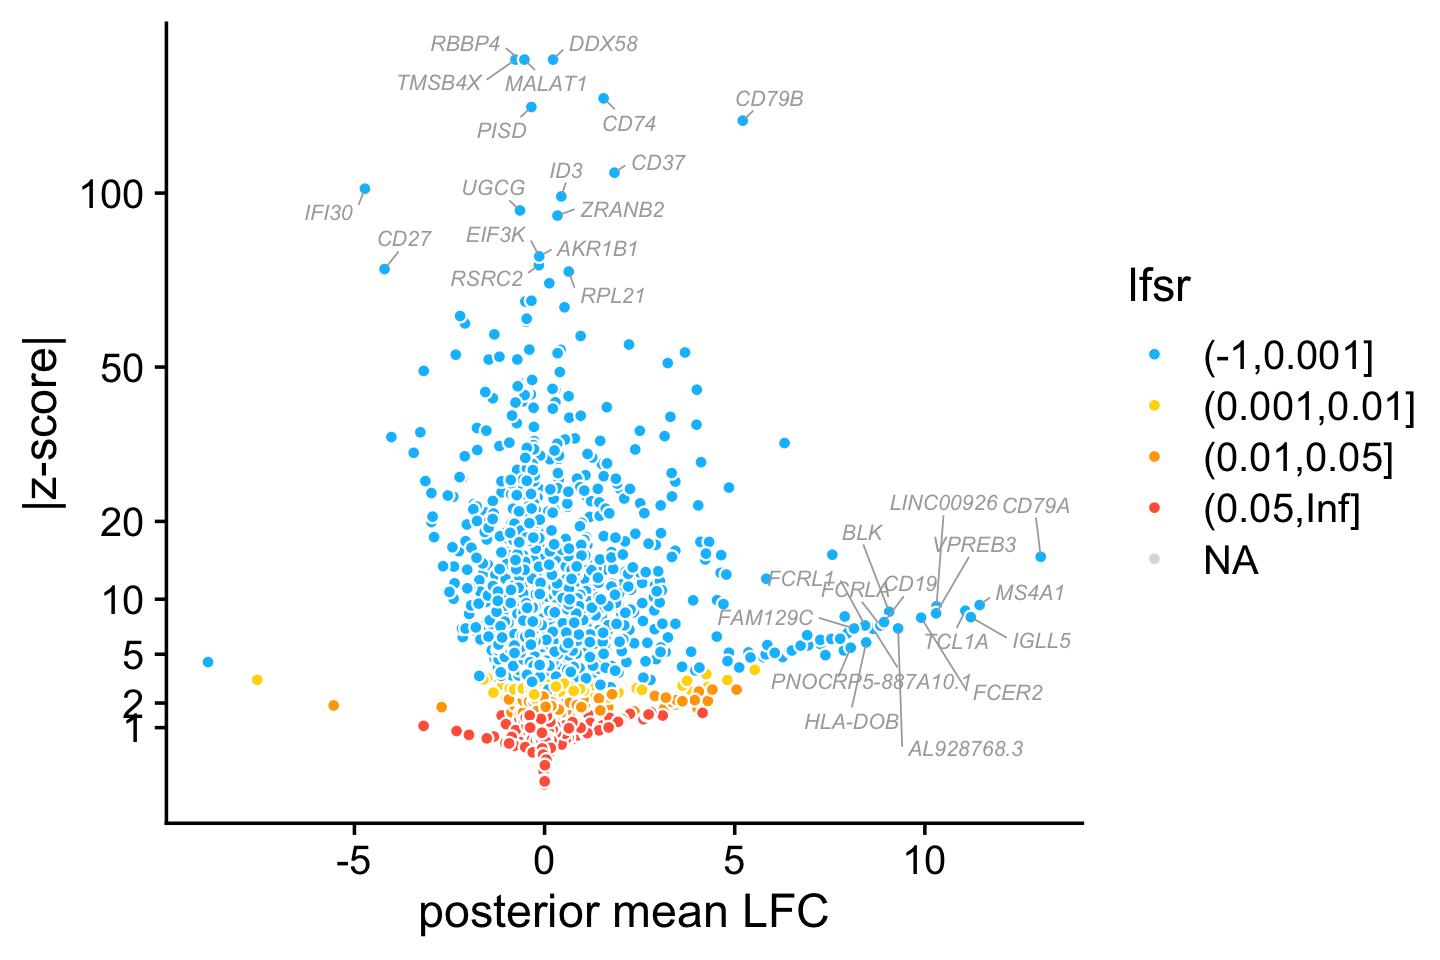
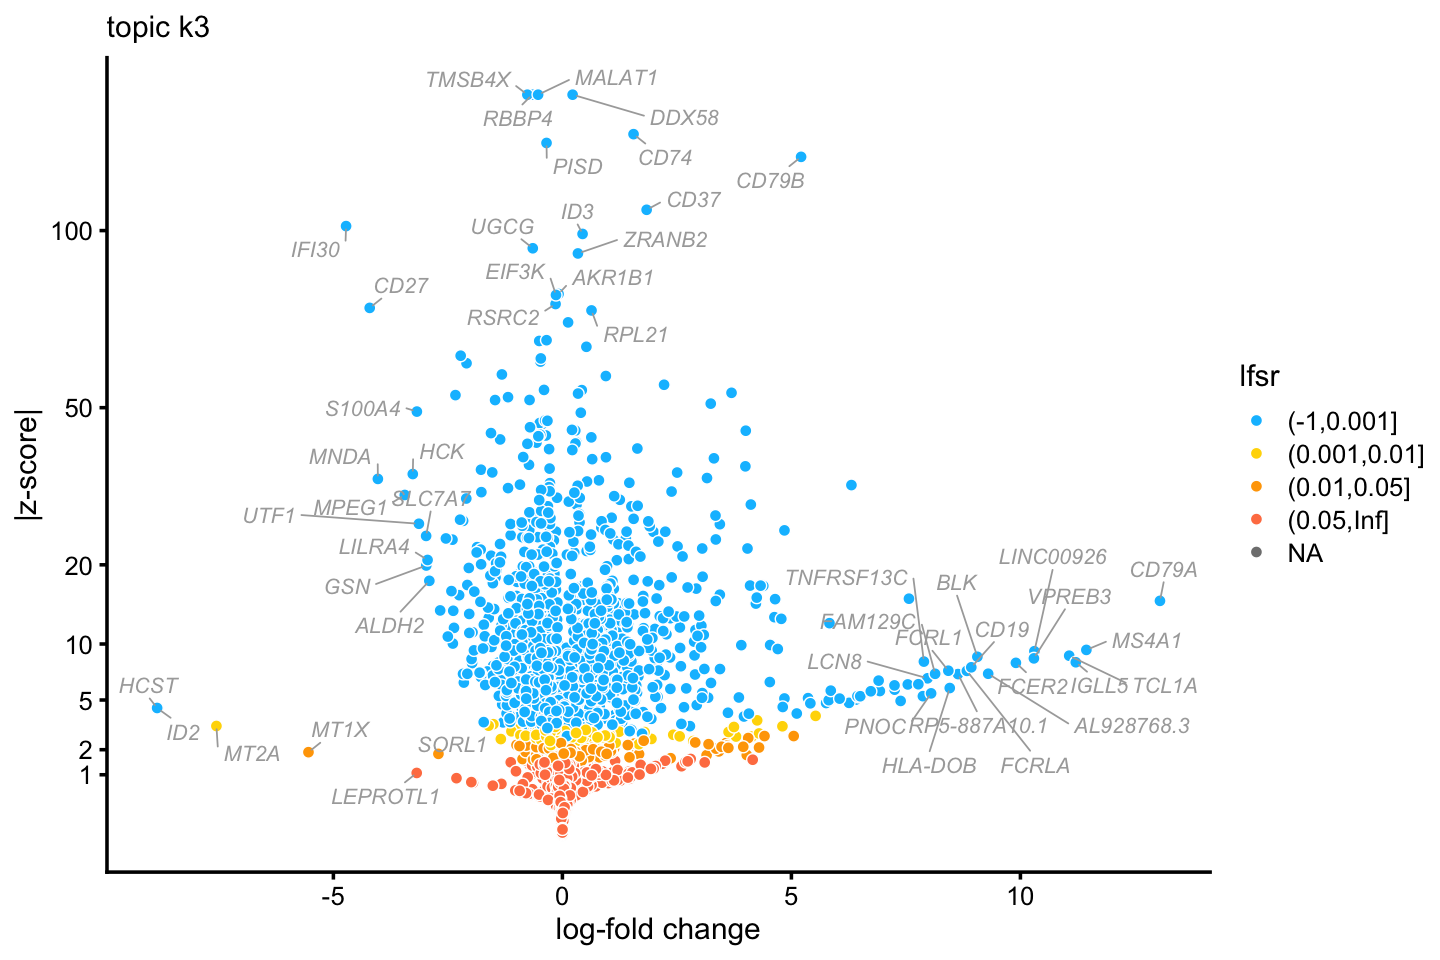
Added volcano plot to de_analysis_purified_pbmc analysis, and updated code for new version of fastTopics.

diff --git a/docs/de_analysis_purified_pbmc.html b/docs/de_analysis_purified_pbmc.html
@@ -323,7 +323,7 @@ $(document).ready(function () {
 <div class="tab-content">
 <div id="summary" class="tab-pane fade in active">
 <p>
-<strong>Last updated:</strong> 2021-11-24
+<strong>Last updated:</strong> 2021-11-29
 </p>
 <p>
 <strong>Checks:</strong> <span class="glyphicon glyphicon-ok text-success" aria-hidden="true"></span> 7 <span class="glyphicon glyphicon-exclamation-sign text-danger" aria-hidden="true"></span> 0
@@ -414,16 +414,16 @@ This reproducible <a href="http://rmarkdown.rstudio.com">R Markdown</a> analysis
 <div class="panel panel-default">
 <div class="panel-heading">
 <p class="panel-title">
-<a data-toggle="collapse" data-parent="#workflowr-checks" href="#strongRepositoryversionstrongahrefhttpsgithubcomstephenslabsinglecelltopicstree5825aa94e6074ddb9f120a5e4f7b8d4c1a4b8541targetblank5825aa9a"> <span class="glyphicon glyphicon-ok text-success" aria-hidden="true"></span> <strong>Repository version:</strong> <a href="https://github.com/stephenslab/single-cell-topics/tree/5825aa94e6074ddb9f120a5e4f7b8d4c1a4b8541" target="_blank">5825aa9</a> </a>
+<a data-toggle="collapse" data-parent="#workflowr-checks" href="#strongRepositoryversionstrongahrefhttpsgithubcomstephenslabsinglecelltopicstreeffdd29d6480cc4333dd3a2dd66ab3a7d0497ea2atargetblankffdd29da"> <span class="glyphicon glyphicon-ok text-success" aria-hidden="true"></span> <strong>Repository version:</strong> <a href="https://github.com/stephenslab/single-cell-topics/tree/ffdd29d6480cc4333dd3a2dd66ab3a7d0497ea2a" target="_blank">ffdd29d</a> </a>
 </p>
 </div>
[2 lines of base64/hex data omitted]
 <div class="panel-body">
 <p>
 Great! You are using Git for version control. Tracking code development and connecting the code version to the results is critical for reproducibility.
 </p>
 <p>
-The results in this page were generated with repository version <a href="https://github.com/stephenslab/single-cell-topics/tree/5825aa94e6074ddb9f120a5e4f7b8d4c1a4b8541" target="_blank">5825aa9</a>. See the <em>Past versions</em> tab to see a history of the changes made to the R Markdown and HTML files.
+The results in this page were generated with repository version <a href="https://github.com/stephenslab/single-cell-topics/tree/ffdd29d6480cc4333dd3a2dd66ab3a7d0497ea2a" target="_blank">ffdd29d</a>. See the <em>Past versions</em> tab to see a history of the changes made to the R Markdown and HTML files.
 </p>
 <p>
 Note that you need to be careful to ensure that all relevant files for the analysis have been committed to Git prior to generating the results (you can use <code>wflow_publish</code> or <code>wflow_git_commit</code>). workflowr only checks the R Markdown file, but you know if there are other scripts or data files that it depends on. Below is the status of the Git repository when the results were generated:
@@ -449,9 +449,6 @@ Untracked files:
     Untracked:  analysis/de_analysis_detailed_look_cache/
     Untracked:  analysis/de_analysis_detailed_look_more_cache/
     Untracked:  plots/
-
-Unstaged changes:
-    Modified:   analysis/temp6.R
 
 </code></pre>
 <p>
@@ -490,6 +487,40 @@ Message
 </tr>
 </thead>
 <tbody>
+<tr>
+<td>
+Rmd
+</td>
+<td>
+<a href="https://github.com/stephenslab/single-cell-topics/blob/ffdd29d6480cc4333dd3a2dd66ab3a7d0497ea2a/analysis/de_analysis_purified_pbmc.Rmd" target="_blank">ffdd29d</a>
+</td>
+<td>
+Peter Carbonetto
+</td>
+<td>
+2021-11-29
+</td>
+<td>
+workflowr::wflow_publish(“de_analysis_purified_pbmc.Rmd”, verbose = TRUE)
+</td>
+</tr>
+<tr>
+<td>
+html
+</td>
+<td>
+<a href="https://rawcdn.githack.com/stephenslab/single-cell-topics/1580f792900fe4f7ee55a11e86666ed147f0244f/docs/de_analysis_purified_pbmc.html" target="_blank">1580f79</a>
+</td>
+<td>
+Peter Carbonetto
+</td>
+<td>
+2021-11-24
+</td>
+<td>
+Fixed volcano plot in de_analysis_purified_pbmc analysis.
+</td>
+</tr>
 <tr>
 <td>
 Rmd
@@ -918,10 +949,14 @@ rows &lt;- sort(c(sample(which(celltype == &quot;CD19+ B&quot;),500),
                sample(which(celltype == &quot;CD56+ NK&quot;),400),
                sample(which(celltype == &quot;T cell&quot;),1000)))
 p1 &lt;- structure_plot(select_loadings(fit,loadings = rows),
-                     grouping = celltype[rows],
-                     topics = topics,colors = topic_colors[topics],
-                     perplexity = c(70,30,30,30,70),n = Inf,gap = 30,
+                     grouping = celltype[rows],topics = topics,
+                     colors = topic_colors,perplexity = 70,n = Inf,gap = 30,
                      num_threads = 4,verbose = FALSE)
+# Running tsne on 500 x 6 matrix.
+# Running tsne on 250 x 6 matrix.
+# Running tsne on 500 x 6 matrix.
+# Running tsne on 400 x 6 matrix.
+# Running tsne on 1000 x 6 matrix.
 print(p1)</code></pre>
 <p><img src="figure/de_analysis_purified_pbmc.Rmd/structure-plot-1.png" width="960" style="display: block; margin: auto;" /></p>
 <p>
@@ -1251,6 +1286,17 @@ Date
 <tbody>
 <tr>
 <td>
+<a href="https://github.com/stephenslab/single-cell-topics/blob/1580f792900fe4f7ee55a11e86666ed147f0244f/docs/figure/de_analysis_purified_pbmc.Rmd/bcells-z-scores-1.png" target="_blank">1580f79</a>
+</td>
+<td>
+Peter Carbonetto
+</td>
+<td>
+2021-11-24
+</td>
+</tr>
+<tr>
+<td>
 <a href="https://github.com/stephenslab/single-cell-topics/blob/29aada6272d398a823dcb8d9a2a5fd3e2b7d4912/docs/figure/de_analysis_purified_pbmc.Rmd/bcells-z-scores-1.png" target="_blank">29aada6</a>
 </td>
 <td>
@@ -1271,23 +1317,7 @@ Peter Carbonetto
 <li><p>I highlighted here the <em>HOPX</em> gene because this is a gene that was identified in the fastTopics analysis, but not DESeq2 analysis, presumably because this gene is more strongly expressed in cells that are not actually labeled as “B cell” by FACS.</p></li>
 </ul>
 <p>The fastTopics DE analysis for the “B cells” topic is summarized in the following volcano plot:</p>
-<pre class="r"><code>pdat &lt;- data.frame(gene     = genes$symbol,
-                   postmean = de$postmean[,k],
-                   z        = pmin(150,abs(de$z[,k])),
-                   lfsr     = cut(de$lfsr[,k],c(-1,0.001,0.01,0.05,Inf)),
-                   stringsAsFactors = FALSE)
-j &lt;- which(with(pdat,!(postmean &gt; 8 | z &gt; 75)))
-pdat[j,&quot;gene&quot;] &lt;- &quot;&quot;
-ggplot(pdat,aes(x = postmean,y = z,fill = lfsr,label = gene)) +
-  geom_point(shape = 21,color = &quot;white&quot;,size = 1.5) +
-  geom_text_repel(color = &quot;darkgray&quot;,size = 2.25,fontface = &quot;italic&quot;,
-                  segment.color = &quot;darkgray&quot;,segment.size = 0.25,
-                  min.segment.length = 0,max.overlaps = Inf,na.rm = TRUE) +
-  scale_y_continuous(trans = &quot;sqrt&quot;,breaks = c(1,2,5,10,20,50,100)) +
-  scale_fill_manual(values = c(&quot;deepskyblue&quot;,&quot;gold&quot;,&quot;orange&quot;,&quot;tomato&quot;),
-                    na.value = &quot;gainsboro&quot;) +
-  labs(x = &quot;posterior mean LFC&quot;,y = &quot;|z-score|&quot;) +
-  theme_cowplot()</code></pre>
+<pre class="r"><code>volcano_plot(de,k = &quot;k3&quot;,ymax = 150,labels = genes$symbol)</code></pre>
 <p><img src="figure/de_analysis_purified_pbmc.Rmd/bcells-volcano-plot-1.png" width="720" style="display: block; margin: auto;" /></p>
 <p>
 <button type="button" class="btn btn-default btn-xs btn-workflowr btn-workflowr-fig" data-toggle="collapse" data-target="#fig-bcells-volcano-plot-1">
@@ -1313,6 +1343,17 @@ Date
 <tbody>
 <tr>
 <td>
+<a href="https://github.com/stephenslab/single-cell-topics/blob/1580f792900fe4f7ee55a11e86666ed147f0244f/docs/figure/de_analysis_purified_pbmc.Rmd/bcells-volcano-plot-1.png" target="_blank">1580f79</a>
+</td>
+<td>
+Peter Carbonetto
+</td>
+<td>
+2021-11-24
+</td>
+</tr>
+<tr>
+<td>
 <a href="https://github.com/stephenslab/single-cell-topics/blob/29aada6272d398a823dcb8d9a2a5fd3e2b7d4912/docs/figure/de_analysis_purified_pbmc.Rmd/bcells-volcano-plot-1.png" target="_blank">29aada6</a>
 </td>
 <td>
@@ -1326,6 +1367,13 @@ Peter Carbonetto
 </table>
 </div>
 </div>
+<p>These same results can also be explored in an interactive volcano plot (you can view the plot <a href="de_analysis_purified_pbmc_bcells.html">here</a>:</p>
+<pre class="r"><code>volcano_plotly(de,k = &quot;k3&quot;,ymax = 150,labels = genes$symbol,
+               file = &quot;de_analysis_purified_pbmc_bcells.html&quot;)
+# Warning: `arrange_()` was deprecated in dplyr 0.7.0.
+# Please use `arrange()` instead.
+# See vignette(&#39;programming&#39;) for more help
+# Warning: Ignoring 323 observations</code></pre>
 <br>
 <p>
 <button type="button" class="btn btn-default btn-workflowr btn-workflowr-sessioninfo" data-toggle="collapse" data-target="#workflowr-sessioninfo" style="display: block;">
@@ -1351,7 +1399,7 @@ Peter Carbonetto
 # 
 # other attached packages:
 #  [1] cowplot_1.0.0               ggrepel_0.9.1              
-#  [3] ggplot2_3.3.5               fastTopics_0.6-79          
+#  [3] ggplot2_3.3.5               fastTopics_0.6-93          
 #  [5] DESeq2_1.33.5               SummarizedExperiment_1.16.1
 #  [7] DelayedArray_0.12.3         BiocParallel_1.18.1        
 #  [9] matrixStats_0.61.0          Biobase_2.46.0             
@@ -1360,39 +1408,40 @@ Peter Carbonetto
 # [15] BiocGenerics_0.32.0         Matrix_1.2-18              
 # 
 # loaded via a namespace (and not attached):
-#  [1] Rtsne_0.15             colorspace_1.4-1       ellipsis_0.3.2        
-#  [4] rprojroot_1.3-2        XVector_0.26.0         fs_1.3.1              
-#  [7] farver_2.0.1           MatrixModels_0.4-1     bit64_0.9-7           
-# [10] AnnotationDbi_1.48.0   fansi_0.4.0            splines_3.6.2         
-# [13] geneplotter_1.64.0     knitr_1.26             jsonlite_1.7.2        
-# [16] workflowr_1.6.2        mcmc_0.9-6             annotate_1.64.0       
-# [19] ashr_2.2-51            compiler_3.6.2         httr_1.4.2            
-# [22] backports_1.1.5        assertthat_0.2.1       lazyeval_0.2.2        
-# [25] later_1.0.0            htmltools_0.4.0        quantreg_5.54         
-# [28] prettyunits_1.1.1      tools_3.6.2            coda_0.19-3           
-# [31] gtable_0.3.0           glue_1.4.2             GenomeInfoDbData_1.2.2
-# [34] dplyr_1.0.7            Rcpp_1.0.7             vctrs_0.3.8           
-# [37] xfun_0.11              stringr_1.4.0          lifecycle_1.0.0       
-# [40] irlba_2.3.3            XML_3.99-0.3           zlibbioc_1.32.0       
-# [43] MASS_7.3-51.4          scales_1.1.0           hms_1.1.0             
-# [46] promises_1.1.0         SparseM_1.78           RColorBrewer_1.1-2    
-# [49] yaml_2.2.0             memoise_1.1.0          pbapply_1.5-1         
-# [52] stringi_1.4.3          RSQLite_2.2.0          SQUAREM_2017.10-1     
-# [55] genefilter_1.68.0      truncnorm_1.0-8        rlang_0.4.11          
-# [58] pkgconfig_2.0.3        bitops_1.0-6           evaluate_0.14         
-# [61] lattice_0.20-38        invgamma_1.1           purrr_0.3.4           
-# [64] htmlwidgets_1.5.1      labeling_0.3           bit_1.1-15.2          
-# [67] tidyselect_1.1.1       magrittr_2.0.1         R6_2.4.1              
-# [70] generics_0.0.2         DBI_1.1.0              pillar_1.6.2          
-# [73] whisker_0.4            withr_2.4.2            survival_3.1-8        
-# [76] RCurl_1.98-1.2         mixsqp_0.3-46          tibble_3.1.3          
-# [79] crayon_1.4.1           utf8_1.1.4             plotly_4.9.2          
-# [82] rmarkdown_2.3          progress_1.2.2         locfit_1.5-9.4        
-# [85] grid_3.6.2             data.table_1.12.8      blob_1.2.1            
-# [88] git2r_0.26.1           digest_0.6.23          xtable_1.8-4          
-# [91] tidyr_1.1.3            httpuv_1.5.2           MCMCpack_1.4-5        
-# [94] RcppParallel_4.4.2     munsell_0.5.0          viridisLite_0.3.0     
-# [97] quadprog_1.5-8</code></pre>
+#   [1] Rtsne_0.15             colorspace_1.4-1       ellipsis_0.3.2        
+#   [4] rprojroot_1.3-2        XVector_0.26.0         fs_1.3.1              
+#   [7] farver_2.0.1           MatrixModels_0.4-1     bit64_0.9-7           
+#  [10] AnnotationDbi_1.48.0   fansi_0.4.0            splines_3.6.2         
+#  [13] geneplotter_1.64.0     knitr_1.26             jsonlite_1.7.2        
+#  [16] workflowr_1.6.2        mcmc_0.9-6             annotate_1.64.0       
+#  [19] ashr_2.2-51            uwot_0.1.10            shiny_1.4.0           
+#  [22] compiler_3.6.2         httr_1.4.2             backports_1.1.5       
+#  [25] fastmap_1.0.1          assertthat_0.2.1       lazyeval_0.2.2        
+#  [28] later_1.0.0            htmltools_0.4.0        quantreg_5.54         
+#  [31] prettyunits_1.1.1      tools_3.6.2            coda_0.19-3           
+#  [34] gtable_0.3.0           glue_1.4.2             GenomeInfoDbData_1.2.2
+#  [37] dplyr_1.0.7            Rcpp_1.0.7             vctrs_0.3.8           
+#  [40] crosstalk_1.0.0        xfun_0.11              stringr_1.4.0         
+#  [43] mime_0.8               lifecycle_1.0.0        irlba_2.3.3           
+#  [46] XML_3.99-0.3           zlibbioc_1.32.0        MASS_7.3-51.4         
+#  [49] scales_1.1.0           hms_1.1.0              promises_1.1.0        
+#  [52] SparseM_1.78           RColorBrewer_1.1-2     yaml_2.2.0            
+#  [55] memoise_1.1.0          pbapply_1.5-1          stringi_1.4.3         
+#  [58] RSQLite_2.2.0          SQUAREM_2017.10-1      genefilter_1.68.0     
+#  [61] truncnorm_1.0-8        rlang_0.4.11           pkgconfig_2.0.3       
+#  [64] bitops_1.0-6           evaluate_0.14          lattice_0.20-38       
+#  [67] invgamma_1.1           purrr_0.3.4            htmlwidgets_1.5.1     
+#  [70] labeling_0.3           bit_1.1-15.2           tidyselect_1.1.1      
+#  [73] magrittr_2.0.1         R6_2.4.1               generics_0.0.2        
+#  [76] DBI_1.1.0              pillar_1.6.2           whisker_0.4           
+#  [79] withr_2.4.2            survival_3.1-8         RCurl_1.98-1.2        
+#  [82] mixsqp_0.3-46          tibble_3.1.3           crayon_1.4.1          
+#  [85] utf8_1.1.4             plotly_4.9.2           rmarkdown_2.3         
+#  [88] progress_1.2.2         locfit_1.5-9.4         grid_3.6.2            
+#  [91] data.table_1.12.8      blob_1.2.1             git2r_0.26.1          
+#  [94] digest_0.6.23          xtable_1.8-4           tidyr_1.1.3           
+#  [97] httpuv_1.5.2           MCMCpack_1.4-5         RcppParallel_4.4.2    
+# [100] munsell_0.5.0          viridisLite_0.3.0      quadprog_1.5-8</code></pre>
 </div>
 </div>
 
